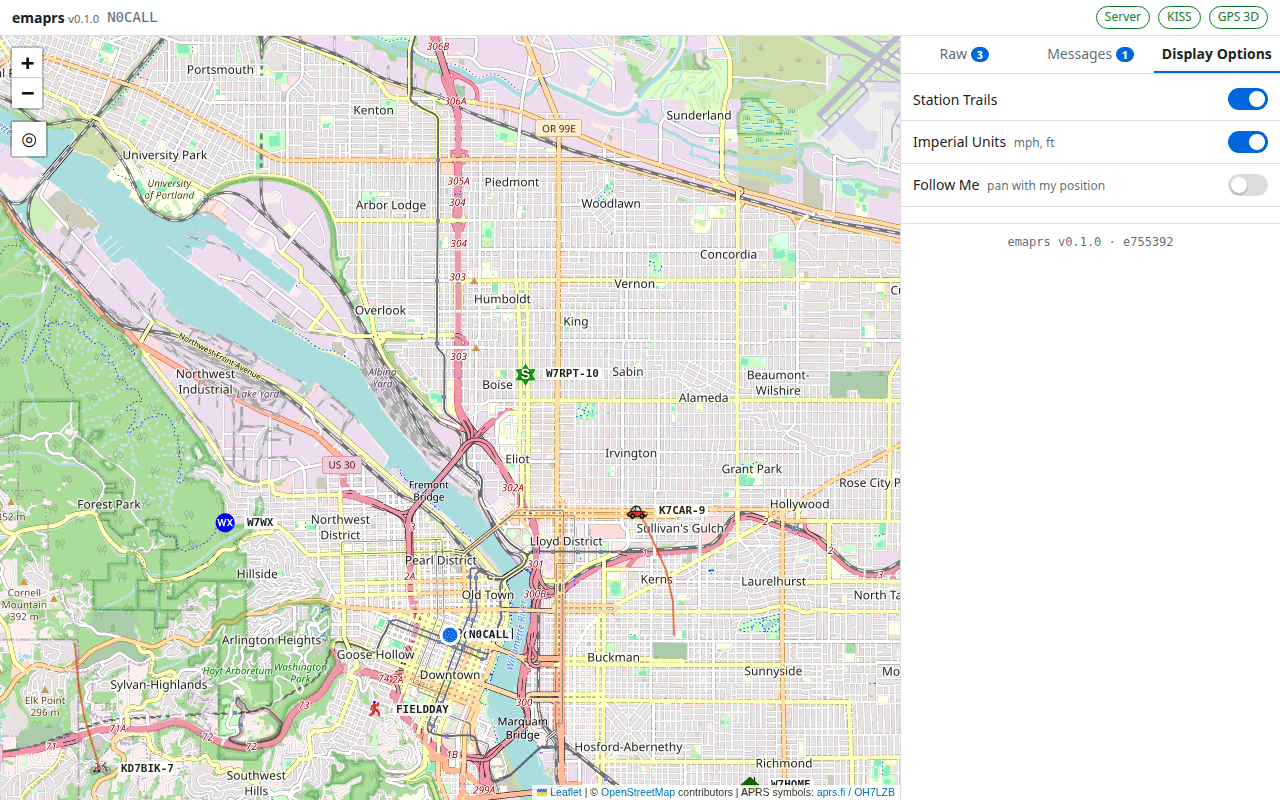
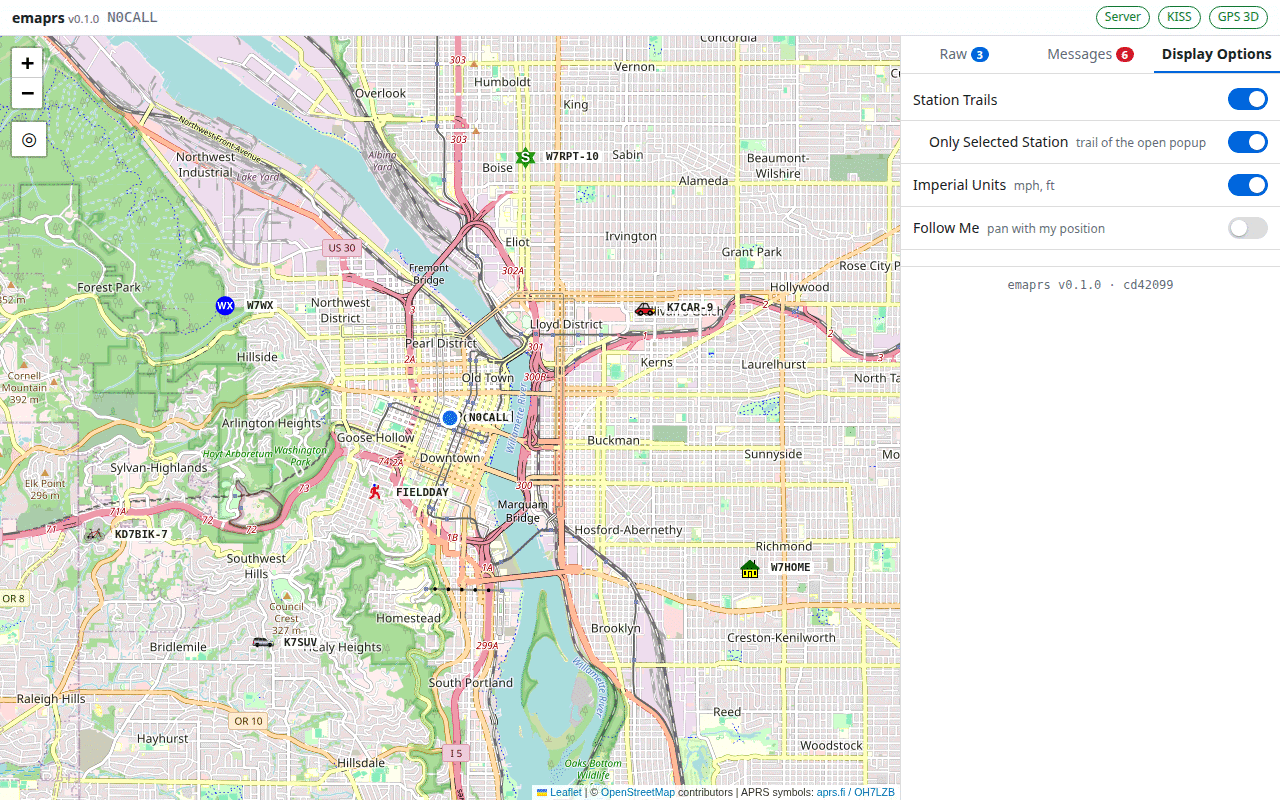
Display Options: show only the selected station's trail
With many stations on the map, every trail at once is cluttered. A new
"Only Selected Station" switch under Station Trails draws only the trail
of the station whose popup is open, whether opened from its marker or by
clicking one of its packets in the Raw or Messages list. Closing the popup
hides the trail again.

The switch is on by default and remembered per browser like the other
options. It is greyed out while Station Trails is off. Turning it off
brings back every trail, as before.

README, CHANGELOG and the Display Options screenshot updated to match.

diff --git a/emaprs/static/app.js b/emaprs/static/app.js
@@ -21,6 +21,8 @@
   const unread = { raw: 0, msg: 0, msgToMe: 0 };
   let imperial = true;          // Display Options: mph / ft instead of km/h / m
   let followMe = false;         // Display Options: keep the map panned to my position
+  let trailsSelectedOnly = true; // Display Options: trail only for the station whose popup is open
+  let selectedStation = null;   // name of the station whose popup is open
 
   // ---------- helpers ----------
   function h(tag, cls, text) {
@@ -210,6 +212,26 @@
 
   const TRAIL_STYLE = { color: "#d9480f", weight: 2, opacity: 0.7, interactive: false };
 
+  // Put a station's trail in trailLayer, or take it out, per the "Only
+  // Selected Station" option. (trailLayer itself is on the map only while
+  // Station Trails is on.)
+  function syncTrail(name) {
+    const s = stations.get(name);
+    if (!s || !s.trail) return;
+    const shown = !trailsSelectedOnly || name === selectedStation;
+    if (shown && !trailLayer.hasLayer(s.trail)) trailLayer.addLayer(s.trail);
+    else if (!shown && trailLayer.hasLayer(s.trail)) trailLayer.removeLayer(s.trail);
+  }
+
+  function syncAllTrails() {
+    for (const name of stations.keys()) syncTrail(name);
+  }
+
+  function selectStation(name) {
+    selectedStation = name;
+    syncAllTrails();
+  }
+
   // Redraw a station's marker and trail from its packet history.
   function renderStation(name) {
     const s = stations.get(name);
@@ -236,12 +258,15 @@
         // object or item name is whatever another station sent.
         .bindTooltip(h("span", null, name), { permanent: true, direction: "right", className: "callsign" })
         .bindPopup(() => popupContent(name), { maxWidth: 360 })
+        .on("popupopen", () => selectStation(name))
         .on("popupclose", () => {
           // Reopen fresh: packet list collapsed, and content rebuilt rather
           // than the snapshot a live update left behind.
           const cur = stations.get(name);
           if (cur) cur.histOpen = false;
           cur?.marker?.setPopupContent(() => popupContent(name));
+          // Opening another station's popup closes this one first.
+          if (selectedStation === name) selectStation(null);
         })
         .addTo(map);
       s.symKey = symbolKey(p);
@@ -256,7 +281,10 @@
     }
     if (pts.length >= 2) {
       if (s.trail) s.trail.setLatLngs(pts);
-      else s.trail = L.polyline(pts, TRAIL_STYLE).addTo(trailLayer);
+      else {
+        s.trail = L.polyline(pts, TRAIL_STYLE);
+        syncTrail(name);
+      }
     } else if (s.trail) {
       trailLayer.removeLayer(s.trail);
       s.trail = null;
@@ -306,6 +334,7 @@
       if (s.marker) s.marker.remove();
       if (s.trail) trailLayer.removeLayer(s.trail);
       stations.delete(name);
+      if (selectedStation === name) selectedStation = null;
     }
   }
 
@@ -443,12 +472,21 @@
 
   function setupOptions() {
     const trails = el("opt-trails");
+    const selOnly = el("opt-trails-selected");
     trails.checked = loadOption("trails", true);
+    selOnly.disabled = !trails.checked;
     trails.addEventListener("change", () => {
       saveOption("trails", trails.checked);
+      selOnly.disabled = !trails.checked;
       if (!map) return;
       if (trails.checked) trailLayer.addTo(map);
       else trailLayer.remove();
+    });
+    selOnly.checked = trailsSelectedOnly = loadOption("trailsSelected", true);
+    selOnly.addEventListener("change", () => {
+      trailsSelectedOnly = selOnly.checked;
+      saveOption("trailsSelected", trailsSelectedOnly);
+      if (map) syncAllTrails();
     });
     const units = el("opt-imperial");
     units.checked = imperial = loadOption("imperial", true);

diff --git a/emaprs/static/style.css b/emaprs/static/style.css
@@ -138,6 +138,8 @@ aside {
   cursor: pointer;
 }
 .option .hint { color: var(--fg-dim); font-size: 12px; margin-left: 4px; }
+.option.sub { padding-left: 28px; }  /* a sub-setting of the option above */
+.option:has(.switch:disabled) { opacity: 0.5; cursor: default; }
 /* Sliding on/off switch on a plain checkbox. */
 .switch {
   appearance: none;
@@ -166,6 +168,7 @@ aside {
 }
 .switch:checked { background: var(--accent); }
 .switch:checked::before { transform: translateX(18px); }
+.switch:disabled { cursor: default; }
 .switch:focus-visible { outline: 2px solid var(--accent); outline-offset: 2px; }
 
 .panel li {

diff --git a/emaprs/static/index.html b/emaprs/static/index.html
@@ -33,6 +33,10 @@
           <span>Station Trails</span>
           <input type="checkbox" id="opt-trails" class="switch" role="switch" checked>
         </label>
+        <label class="option sub">
+          <span>Only Selected Station <small class="hint">trail of the open popup</small></span>
+          <input type="checkbox" id="opt-trails-selected" class="switch" role="switch" checked>
+        </label>
         <label class="option">
           <span>Imperial Units <small class="hint">mph, ft</small></span>
           <input type="checkbox" id="opt-imperial" class="switch" role="switch" checked>

diff --git a/README.md b/README.md
@@ -20,7 +20,8 @@ internet, and the browser fetches them itself when it can.
 - Your own position as a blue marker, from gpsd or a fixed location in the
   config (see [Your position](#your-position-gpsd-or-a-fixed-location)).
   Packets you sent are ringed in blue.
-- **Station trails**: a line through each moving station's earlier positions.
+- **Station trails**: a line through a moving station's earlier positions,
+  for the station you've selected or for every station (see Display Options).
 - The ◎ button re-centres the map on your position. The map centres on you
   automatically when your position first appears.
 - Stations disappear after `station_expire_minutes` with no packets. Killed
@@ -65,7 +66,11 @@ another tab. Messages expire after `station_expire_minutes`, like stations.
 
 ### Display Options tab
 
-- **Station Trails** on/off switch.
+- **Station Trails** on/off switch, with a sub-switch:
+  - **Only Selected Station**, on by default: draw only the trail of the
+    station whose detail popup is open (click its marker, or a packet in
+    the Raw or Messages list). Closing the popup hides the trail again.
+    Turn it off to see every station's trail at once.
 - **Imperial Units** switch, on by default: speeds in mph and altitudes in
   feet; off shows km/h and metres. This only changes the display: emaprs
   stores and sends metric (aprslib converts APRS's knots and feet as it

diff --git a/CHANGELOG.md b/CHANGELOG.md
@@ -9,6 +9,13 @@ follow [Semantic Versioning](https://semver.org/).
 
 ## [Unreleased]
 
+### Added
+
+- Display Options: **Only Selected Station** switch under Station Trails.
+  When on, only the trail of the station whose popup is open is drawn,
+  instead of every station's trail. It is on by default, so after
+  upgrading you see one trail at a time; turn it off for the old view.
+
 ### Changed
 
 - `config.example.toml` now lists every setting commented out, with its
